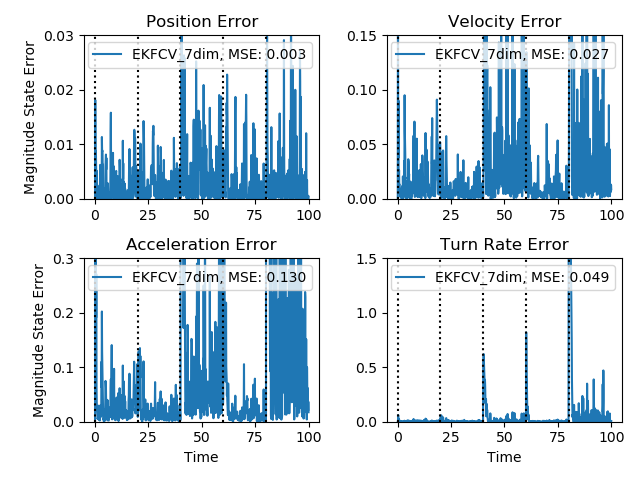
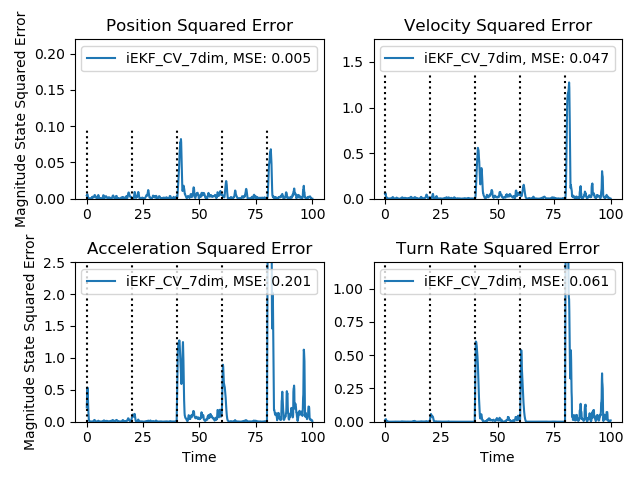
fix merge bugs

diff --git a/imm/IMM.py b/imm/IMM.py
@@ -2,9 +2,9 @@ from random import gauss
 import numpy as np
 from utils.Gauss import GaussState, moments_gaussian_mixture
 from imm.Gaussian_Mixture import GaussianMixture
-from dynamics_models.CA_7dim import CA_7dim
-from dynamics_models.CV_7dim import CV_7dim
-from dynamics_models.CT_7dim import CT_7dim
+from dynamics_models.CA import CA
+from dynamics_models.CV import CV
+from dynamics_models.CT import CT
 
 class IMM():
     def __init__(self, filters, pi):
@@ -25,15 +25,9 @@ class IMM():
 
     def get_dyn_types(self):
         dyn_models = [fil.dyn_model for fil in self.filters]
-        dyn_type = []
+        dyn_type = [dyn_model.__class__.__name__ for dyn_model in dyn_models]
 
-        for dyn in dyn_models:
-            if isinstance(dyn, CA_7dim):
-                dyn_type.append('CA')
-            elif isinstance(dyn, CV_7dim):
-                dyn_type.append('CV')
-            elif isinstance(dyn, CT_7dim):
-                dyn_type.append('CT')
+        
 
         return dyn_type
 

diff --git a/imm_synthetic.py b/imm_synthetic.py
@@ -3,7 +3,7 @@ import numpy as np
 import matplotlib.pyplot as plt
 from tqdm import tqdm
 
-from dynamics_models.CV import CV
+from dynamics_models.CV_7dim import CV_7dim
 from dynamics_models.CA import CA
 from dynamics_models.CT import CT
 from measurement_models.range_only import RangeOnly
@@ -53,13 +53,13 @@ np.random.seed(seed=12)
 
 sensor_model = RangeBearing(sigma_r, sigma_th, state_dim=7)
 filters = [
-    EKF(CV(sigma_q), sensor_model),
-    EKF(CT(sigma_a, sigma_w=sigma_w), sensor_model),
-    EKF(CA(sigma=sigma_a), sensor_model),
+    iEKF(CV_7dim(sigma_q), sensor_model),
+    iEKF(CT(sigma_a, sigma_w=sigma_w), sensor_model),
+    iEKF(CA(sigma=sigma_a), sensor_model),
 
 ]
 individual_filters = [
-    EKF(CV(sigma_q), sensor_model),
+    EKF(CV_7dim(sigma_q), sensor_model),
     EKF(CT(sigma_a, sigma_w=sigma_w), sensor_model),
     EKF(CA(sigma=sigma_a), sensor_model),
 
